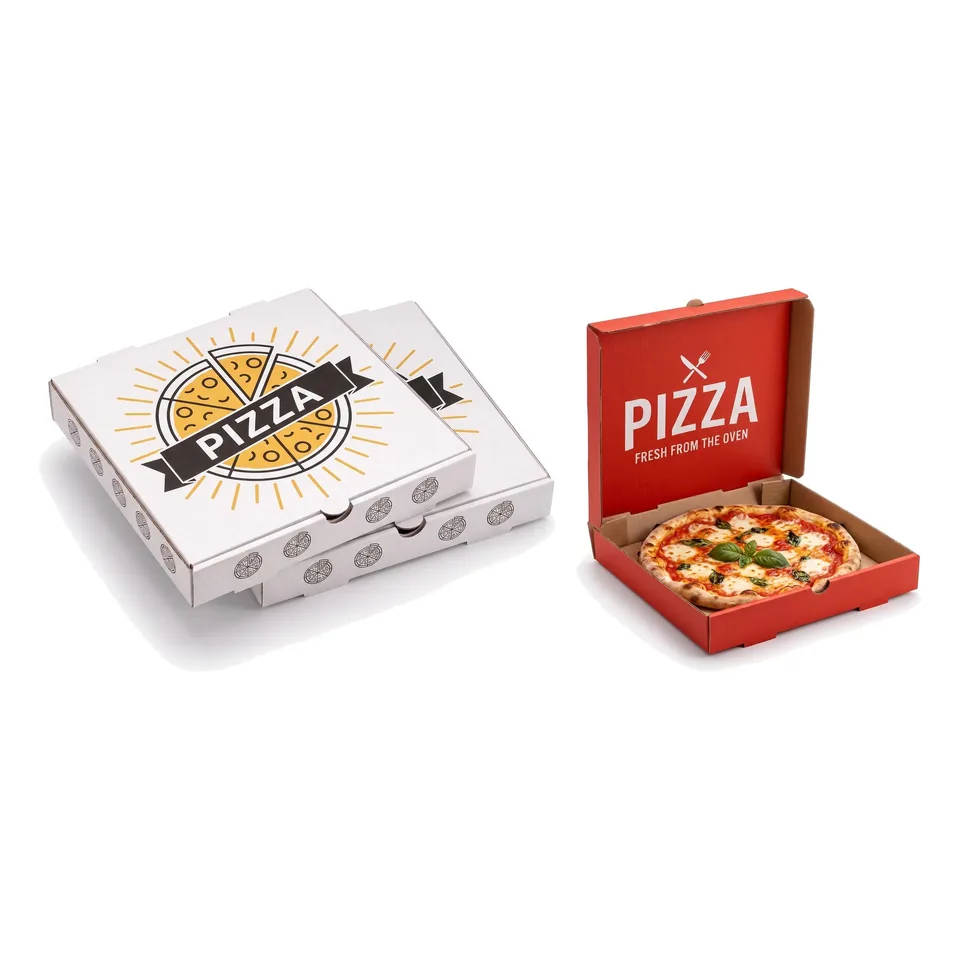
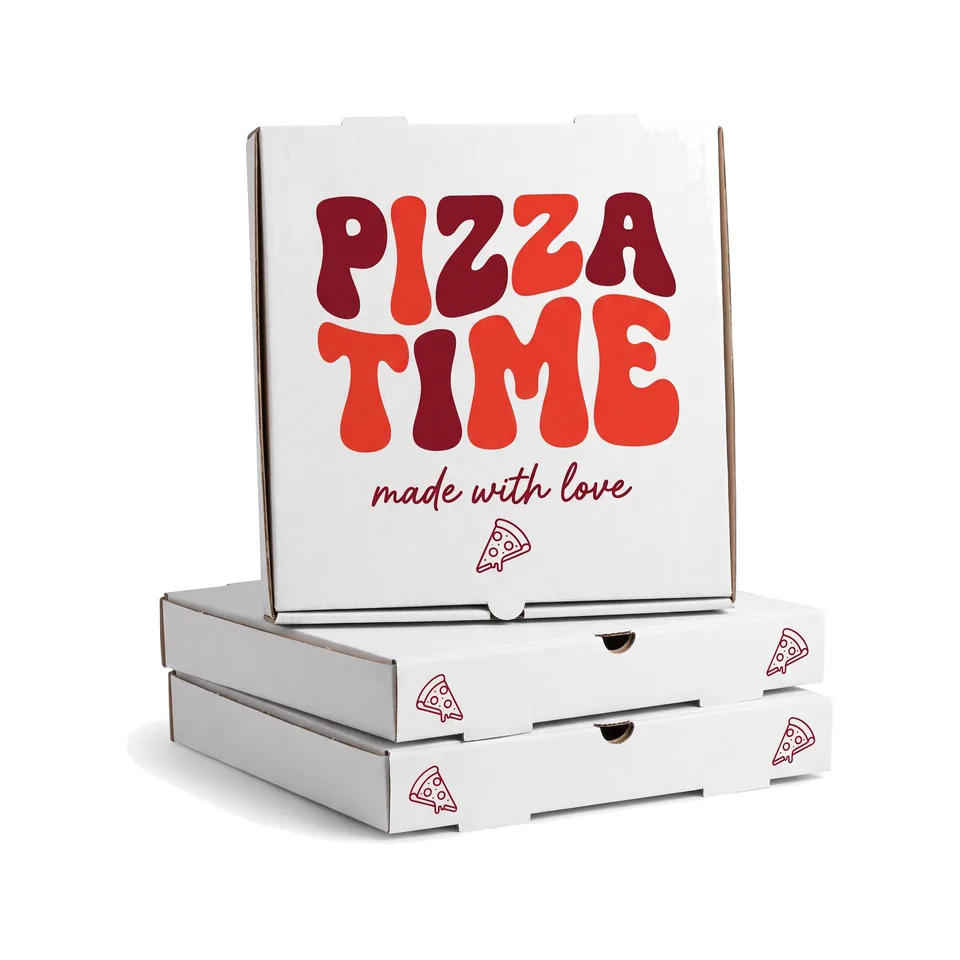
Pizzakartons: vier Bilder im Stil der Vorlagen (Stapel, zwei Kartons, offener Karton, Kraft)
Claude-Session: https://claude.ai/code/session_019HkPKDAwefi4jik8DbuM5U

diff --git a/produkte/pizzakartons/index.html b/produkte/pizzakartons/index.html
@@ -76,12 +76,16 @@
     <div class="pf-shot">
       <div class="pf-design-pick" data-designs>
       <div class="pf-designs" tabindex="0" role="region" aria-roledescription="Bildergalerie" aria-label="Echte Kundendesigns, zum Wechseln wischen">
-        <img class="pf-design is-on" src="/Bilder/web/pizzakarton-design-gelb-schwarz-960.webp" srcset="/Bilder/web/pizzakarton-design-gelb-schwarz-480.webp 480w, /Bilder/web/pizzakarton-design-gelb-schwarz-960.webp 960w" sizes="(max-width: 980px) 90vw, 560px" alt="Pizzakartons mit Logo im Design von Weiß, 2-farbig" width="960" height="960" draggable="false" fetchpriority="high">
+        <img class="pf-design is-on" src="/Bilder/web/pizzakarton-design-stapel-rot-960.webp" srcset="/Bilder/web/pizzakarton-design-stapel-rot-480.webp 480w, /Bilder/web/pizzakarton-design-stapel-rot-960.webp 960w" sizes="(max-width: 980px) 90vw, 560px" alt="Pizzakartons mit Logo im Design von Weiß, 2-farbig" width="960" height="960" draggable="false" fetchpriority="high">
+        <img class="pf-design" src="/Bilder/web/pizzakarton-design-gelb-schwarz-960.webp" srcset="/Bilder/web/pizzakarton-design-gelb-schwarz-480.webp 480w, /Bilder/web/pizzakarton-design-gelb-schwarz-960.webp 960w" sizes="(max-width: 980px) 90vw, 560px" alt="Pizzakartons mit Logo im Design von Weiß, 2-farbig" width="960" height="960" draggable="false" decoding="async">
         <img class="pf-design" src="/Bilder/web/pizzakarton-design-rot-offen-960.webp" srcset="/Bilder/web/pizzakarton-design-rot-offen-480.webp 480w, /Bilder/web/pizzakarton-design-rot-offen-960.webp 960w" sizes="(max-width: 980px) 90vw, 560px" alt="Pizzakartons mit Logo im Design von Rot, 1-farbig" width="960" height="960" draggable="false" decoding="async">
+        <img class="pf-design" src="/Bilder/web/pizzakarton-design-kraft-rot-960.webp" srcset="/Bilder/web/pizzakarton-design-kraft-rot-480.webp 480w, /Bilder/web/pizzakarton-design-kraft-rot-960.webp 960w" sizes="(max-width: 980px) 90vw, 560px" alt="Pizzakartons mit Logo im Design von Braun, 1-farbig" width="960" height="960" draggable="false" decoding="async">
       </div>
       <div class="pf-swatches" role="group" aria-label="Kundendesign wählen">
-        <button type="button" class="pf-swatch is-on" style="--c:#F2B630" data-name="Weiß, 2-farbig" aria-pressed="true" aria-label="Design von Weiß, 2-farbig zeigen"></button>
+        <button type="button" class="pf-swatch is-on" style="--c:#B8202E" data-name="Weiß, 2-farbig" aria-pressed="true" aria-label="Design von Weiß, 2-farbig zeigen"></button>
+        <button type="button" class="pf-swatch" style="--c:#F2B630" data-name="Weiß, 2-farbig" aria-pressed="false" aria-label="Design von Weiß, 2-farbig zeigen"></button>
         <button type="button" class="pf-swatch" style="--c:#D9302C" data-name="Rot, 1-farbig" aria-pressed="false" aria-label="Design von Rot, 1-farbig zeigen"></button>
+        <button type="button" class="pf-swatch" style="--c:#B88A5A" data-name="Braun, 1-farbig" aria-pressed="false" aria-label="Design von Braun, 1-farbig zeigen"></button>
       </div>
       <p class="pf-design-cap">Gestaltungsbeispiel: <b data-design-name aria-live="polite">Weiß, 2-farbig</b><span>Dein Pizzakarton bekommt dein Logo in deinen Farben.</span></p>
       </div>
@@ -343,7 +347,7 @@
   </div>
 </div>
 
-<script type="application/json" id="pf-data">{"product":{"slug":"pizzakartons","url":"/produkte/pizzakartons/","name":"Pizzakartons mit Logo","image":"/Bilder/web/pizzakartons-karte-960.webp","unit":"Stück","qtyKey":"menge","catalog":{"title":"Pizzakartons","tags":["papierboxen"]},"badge":"Neu","branchen":["doener","bowls"],"related":["servietten","feuchttuecher","tueten","salatschalen"],"options":[{"key":"groesse","label":"Größe","choices":[{"id":"20x20","label":"20 × 20 cm","detail":"Höhe 4 cm"},{"id":"24x24","label":"24 × 24 cm","detail":"Höhe ca. 3,5–4 cm"},{"id":"26x26","label":"26 × 26 cm","detail":"Höhe ca. 3,5–4 cm"},{"id":"28x28","label":"28 × 28 cm","detail":"Höhe 4 cm"},{"id":"30x30","label":"30 × 30 cm","detail":"Höhe 4 cm"},{"id":"32x32","label":"32 × 32 cm","detail":"Höhe 4 cm"},{"id":"34x34","label":"34 × 34 cm","detail":"Höhe 4 cm"},{"id":"36x36","label":"36 × 36 cm","detail":"Höhe 4 cm"},{"id":"40x40","label":"40 × 40 cm","detail":"Höhe 4 cm"},{"id":"42x42","label":"42 × 42 cm","detail":"Höhe 4 cm"},{"id":"45x45","label":"45 × 45 cm","detail":"Höhe 4 cm"},{"id":"50x50","label":"50 × 50 cm","detail":"Höhe 5 cm"}],"note":"Weitere Maße und Sonderhöhen auf Anfrage"},{"key":"druck","label":"Druck","choices":[{"id":"1","label":"1-farbig","detail":"Flexodruck"},{"id":"2","label":"2-farbig","detail":"Flexodruck"}],"note":"Karton weiß oder braun – die genaue Ausführung bestätigen wir vor dem Auftrag"},{"key":"menge","label":"Menge","choices":[{"id":"1000","label":"1.000 Stück"},{"id":"3000","label":"3.000 Stück"},{"id":"5000","label":"5.000 Stück","tip":true},{"id":"10000","label":"10.000 Stück"}],"note":"Größere Mengen auf Anfrage · einmalige Klischeekosten je nach Motiv separat"}],"pricing":{"basis":"unit","by":["groesse","druck","menge"],"table":{"20x20":{"1":{"1000":4800,"3000":2780,"5000":2380,"10000":2210},"2":{"1000":5210,"3000":3190,"5000":2790,"10000":2620}},"24x24":{"1":{"1000":4780,"3000":2780,"5000":2430,"10000":2250},"2":{"1000":5370,"3000":2980,"5000":2630,"10000":2450}},"26x26":{"1":{"1000":4820,"3000":2820,"5000":2470,"10000":2320},"2":{"1000":5440,"3000":3020,"5000":2670,"10000":2520}},"28x28":{"1":{"1000":5210,"3000":3150,"5000":2800,"10000":2650},"2":{"1000":5620,"3000":3560,"5000":3210,"10000":3060}},"30x30":{"1":{"1000":4940,"3000":2940,"5000":2640,"10000":2460},"2":{"1000":5780,"3000":3140,"5000":2840,"10000":2660}},"32x32":{"1":{"1000":5020,"3000":3020,"5000":2720,"10000":2540},"2":{"1000":5850,"3000":3220,"5000":2920,"10000":2740}},"34x34":{"1":{"1000":5210,"3000":3210,"5000":2910,"10000":2760},"2":{"1000":6010,"3000":3410,"5000":3110,"10000":2960}},"36x36":{"1":{"1000":5300,"3000":3300,"5000":3050,"10000":2880},"2":{"1000":6190,"3000":3500,"5000":3250,"10000":3080}},"40x40":{"1":{"1000":5700,"3000":4110,"5000":3840,"10000":3690},"2":{"1000":6450,"3000":4490,"5000":4200,"10000":4050}},"42x42":{"1":{"1000":6220,"3000":4380,"5000":4080,"10000":3900},"2":{"1000":6630,"3000":4790,"5000":4490,"10000":4310}},"45x45":{"1":{"1000":6240,"3000":4700,"5000":4450,"10000":4270},"2":{"1000":6970,"3000":4940,"5000":4690,"10000":4540}},"50x50":{"1":{"1000":7040,"3000":5230,"5000":4950,"10000":4800},"2":{"1000":7450,"3000":5650,"5000":5360,"10000":5210}}},"qty":{"by":"menge"}},"rechner":{"frage":"Wie viele Pizzen verkaufst du am Tag?","start":60},"designs":{"wort":"Pizzakarton","artikel":"Dein","titel":"Gestaltungsbeispiel","bilder":[{"file":"pizzakarton-design-gelb-schwarz","name":"Weiß, 2-farbig","color":"#F2B630"},{"file":"pizzakarton-design-rot-offen","name":"Rot, 1-farbig","color":"#D9302C"}]}},"catalog":[{"slug":"tueten","url":"/produkte/tueten/","title":"Papiertüten","img":"/Bilder/web/tueten-karte-480.webp","from":"ab 12,00 ct"},{"slug":"sleeves","url":"/produkte/sleeves/","title":"Kaffeebecher Sleeves","img":"/Bilder/web/sleeves-shop-480.webp","from":"ab 2,59 ct"},{"slug":"burgerbox","url":"/produkte/burgerbox/","title":"Burgerbox","img":"/Bilder/web/burgerbox-karte-480.webp","from":"ab 11,50 ct"},{"slug":"pizzakartons","url":"/produkte/pizzakartons/","title":"Pizzakartons","img":"/Bilder/web/pizzakartons-karte-480.webp","from":"ab 22,10 ct"},{"slug":"einschlagpapier","url":"/produkte/einschlagpapier/","title":"Einschlagpapier","img":"/Bilder/web/tablettpapier-480.webp","from":"ab 5,20 €/kg"},{"slug":"broetchentueten","url":"/produkte/broetchentueten/","title":"Brötchentüten","img":"/Bilder/web/broetchentueten-480.webp","from":"ab 4,68 €/kg"},{"slug":"doenertueten","url":"/produkte/doenertueten/","title":"Dönertüten","img":"/Bilder/web/doenertueten-480.webp","from":"ab 5,20 €/kg"},{"slug":"kuru-pasta","url":"/produkte/kuru-pasta/","title":"Kuru Pasta Kutusu","img":"/Bilder/web/kurupasta-480.webp","from":"ab 11,10 ct"},{"slug":"salatschalen","url":"/produkte/salatschalen/","title":"Salatschalen","img":"/Bilder/web/salatschalen-karte-480.webp","from":"ab 14,15 ct"},{"slug":"baklava-kutusu","url":"/produkte/baklava-kutusu/","title":"Baklava Kutusu","img":"/Bilder/web/baklava-480.webp","from":"ab 8,10 ct"},{"slug":"kuchenboxen","url":"/produkte/kuchenboxen/","title":"Kuchenboxen","img":"/Bilder/web/kuchenbox-480.webp","from":"ab 16,00 ct"},{"slug":"pommesschuetten","url":"/produkte/pommesschuetten/","title":"Pommesschütten","img":"/Bilder/web/pommes-480.webp","from":"ab 5,92 ct"},{"slug":"fc-box","url":"/produkte/fc-box/","title":"FC Box","img":"/Bilder/web/fcbox-480.webp","from":"ab 9,20 ct"},{"slug":"doenerboxen","url":"/produkte/doenerboxen/","title":"Dönerboxen","img":"/Bilder/web/doenerboxen-karte-480.webp","from":"ab 8,29 ct"},{"slug":"takeaway-boxen","url":"/produkte/takeaway-boxen/","title":"Take-away Boxen","img":"/Bilder/web/takeawaybox-480.webp","from":"ab 15,81 ct"},{"slug":"kaffeebecher-single-wall","url":"/produkte/kaffeebecher-single-wall/","title":"Kaffeebecher Single Wall","img":"/Bilder/web/kaffeebecher-sw-480.webp","from":"ab 6,67 ct"},{"slug":"kaffeebecher-double-wall","url":"/produkte/kaffeebecher-double-wall/","title":"Kaffeebecher Double Wall","img":"/Bilder/web/kaffeebecher-dw-480.webp","from":"ab 10,15 ct"},{"slug":"clear-cups","url":"/produkte/clear-cups/","title":"Clear Cups","img":"/Bilder/web/clear-cups-480.webp","from":"ab 13,50 ct"},{"slug":"bubble-tea-cups","url":"/produkte/bubble-tea-cups/","title":"Bubble Tea Cups","img":"/Bilder/web/bubble-tea-cups-480.webp","from":"ab 17,30 ct"},{"slug":"servietten","url":"/produkte/servietten/","title":"Servietten mit Logo","img":"/Bilder/web/servietten-480.webp","from":"ab 1,95 ct"},{"slug":"feuchttuecher","url":"/produkte/feuchttuecher/","title":"Feuchttücher","img":"/Bilder/web/feuchttuecher-480.webp","from":"ab 2,90 ct"}]}</script>
+<script type="application/json" id="pf-data">{"product":{"slug":"pizzakartons","url":"/produkte/pizzakartons/","name":"Pizzakartons mit Logo","image":"/Bilder/web/pizzakartons-karte-960.webp","unit":"Stück","qtyKey":"menge","catalog":{"title":"Pizzakartons","tags":["papierboxen"]},"badge":"Neu","branchen":["doener","bowls"],"related":["servietten","feuchttuecher","tueten","salatschalen"],"options":[{"key":"groesse","label":"Größe","choices":[{"id":"20x20","label":"20 × 20 cm","detail":"Höhe 4 cm"},{"id":"24x24","label":"24 × 24 cm","detail":"Höhe ca. 3,5–4 cm"},{"id":"26x26","label":"26 × 26 cm","detail":"Höhe ca. 3,5–4 cm"},{"id":"28x28","label":"28 × 28 cm","detail":"Höhe 4 cm"},{"id":"30x30","label":"30 × 30 cm","detail":"Höhe 4 cm"},{"id":"32x32","label":"32 × 32 cm","detail":"Höhe 4 cm"},{"id":"34x34","label":"34 × 34 cm","detail":"Höhe 4 cm"},{"id":"36x36","label":"36 × 36 cm","detail":"Höhe 4 cm"},{"id":"40x40","label":"40 × 40 cm","detail":"Höhe 4 cm"},{"id":"42x42","label":"42 × 42 cm","detail":"Höhe 4 cm"},{"id":"45x45","label":"45 × 45 cm","detail":"Höhe 4 cm"},{"id":"50x50","label":"50 × 50 cm","detail":"Höhe 5 cm"}],"note":"Weitere Maße und Sonderhöhen auf Anfrage"},{"key":"druck","label":"Druck","choices":[{"id":"1","label":"1-farbig","detail":"Flexodruck"},{"id":"2","label":"2-farbig","detail":"Flexodruck"}],"note":"Karton weiß oder braun – die genaue Ausführung bestätigen wir vor dem Auftrag"},{"key":"menge","label":"Menge","choices":[{"id":"1000","label":"1.000 Stück"},{"id":"3000","label":"3.000 Stück"},{"id":"5000","label":"5.000 Stück","tip":true},{"id":"10000","label":"10.000 Stück"}],"note":"Größere Mengen auf Anfrage · einmalige Klischeekosten je nach Motiv separat"}],"pricing":{"basis":"unit","by":["groesse","druck","menge"],"table":{"20x20":{"1":{"1000":4800,"3000":2780,"5000":2380,"10000":2210},"2":{"1000":5210,"3000":3190,"5000":2790,"10000":2620}},"24x24":{"1":{"1000":4780,"3000":2780,"5000":2430,"10000":2250},"2":{"1000":5370,"3000":2980,"5000":2630,"10000":2450}},"26x26":{"1":{"1000":4820,"3000":2820,"5000":2470,"10000":2320},"2":{"1000":5440,"3000":3020,"5000":2670,"10000":2520}},"28x28":{"1":{"1000":5210,"3000":3150,"5000":2800,"10000":2650},"2":{"1000":5620,"3000":3560,"5000":3210,"10000":3060}},"30x30":{"1":{"1000":4940,"3000":2940,"5000":2640,"10000":2460},"2":{"1000":5780,"3000":3140,"5000":2840,"10000":2660}},"32x32":{"1":{"1000":5020,"3000":3020,"5000":2720,"10000":2540},"2":{"1000":5850,"3000":3220,"5000":2920,"10000":2740}},"34x34":{"1":{"1000":5210,"3000":3210,"5000":2910,"10000":2760},"2":{"1000":6010,"3000":3410,"5000":3110,"10000":2960}},"36x36":{"1":{"1000":5300,"3000":3300,"5000":3050,"10000":2880},"2":{"1000":6190,"3000":3500,"5000":3250,"10000":3080}},"40x40":{"1":{"1000":5700,"3000":4110,"5000":3840,"10000":3690},"2":{"1000":6450,"3000":4490,"5000":4200,"10000":4050}},"42x42":{"1":{"1000":6220,"3000":4380,"5000":4080,"10000":3900},"2":{"1000":6630,"3000":4790,"5000":4490,"10000":4310}},"45x45":{"1":{"1000":6240,"3000":4700,"5000":4450,"10000":4270},"2":{"1000":6970,"3000":4940,"5000":4690,"10000":4540}},"50x50":{"1":{"1000":7040,"3000":5230,"5000":4950,"10000":4800},"2":{"1000":7450,"3000":5650,"5000":5360,"10000":5210}}},"qty":{"by":"menge"}},"rechner":{"frage":"Wie viele Pizzen verkaufst du am Tag?","start":60},"designs":{"wort":"Pizzakarton","artikel":"Dein","titel":"Gestaltungsbeispiel","bilder":[{"file":"pizzakarton-design-stapel-rot","name":"Weiß, 2-farbig","color":"#B8202E"},{"file":"pizzakarton-design-gelb-schwarz","name":"Weiß, 2-farbig","color":"#F2B630"},{"file":"pizzakarton-design-rot-offen","name":"Rot, 1-farbig","color":"#D9302C"},{"file":"pizzakarton-design-kraft-rot","name":"Braun, 1-farbig","color":"#B88A5A"}]}},"catalog":[{"slug":"tueten","url":"/produkte/tueten/","title":"Papiertüten","img":"/Bilder/web/tueten-karte-480.webp","from":"ab 12,00 ct"},{"slug":"sleeves","url":"/produkte/sleeves/","title":"Kaffeebecher Sleeves","img":"/Bilder/web/sleeves-shop-480.webp","from":"ab 2,59 ct"},{"slug":"burgerbox","url":"/produkte/burgerbox/","title":"Burgerbox","img":"/Bilder/web/burgerbox-karte-480.webp","from":"ab 11,50 ct"},{"slug":"pizzakartons","url":"/produkte/pizzakartons/","title":"Pizzakartons","img":"/Bilder/web/pizzakartons-karte-480.webp","from":"ab 22,10 ct"},{"slug":"einschlagpapier","url":"/produkte/einschlagpapier/","title":"Einschlagpapier","img":"/Bilder/web/tablettpapier-480.webp","from":"ab 5,20 €/kg"},{"slug":"broetchentueten","url":"/produkte/broetchentueten/","title":"Brötchentüten","img":"/Bilder/web/broetchentueten-480.webp","from":"ab 4,68 €/kg"},{"slug":"doenertueten","url":"/produkte/doenertueten/","title":"Dönertüten","img":"/Bilder/web/doenertueten-480.webp","from":"ab 5,20 €/kg"},{"slug":"kuru-pasta","url":"/produkte/kuru-pasta/","title":"Kuru Pasta Kutusu","img":"/Bilder/web/kurupasta-480.webp","from":"ab 11,10 ct"},{"slug":"salatschalen","url":"/produkte/salatschalen/","title":"Salatschalen","img":"/Bilder/web/salatschalen-karte-480.webp","from":"ab 14,15 ct"},{"slug":"baklava-kutusu","url":"/produkte/baklava-kutusu/","title":"Baklava Kutusu","img":"/Bilder/web/baklava-480.webp","from":"ab 8,10 ct"},{"slug":"kuchenboxen","url":"/produkte/kuchenboxen/","title":"Kuchenboxen","img":"/Bilder/web/kuchenbox-480.webp","from":"ab 16,00 ct"},{"slug":"pommesschuetten","url":"/produkte/pommesschuetten/","title":"Pommesschütten","img":"/Bilder/web/pommes-480.webp","from":"ab 5,92 ct"},{"slug":"fc-box","url":"/produkte/fc-box/","title":"FC Box","img":"/Bilder/web/fcbox-480.webp","from":"ab 9,20 ct"},{"slug":"doenerboxen","url":"/produkte/doenerboxen/","title":"Dönerboxen","img":"/Bilder/web/doenerboxen-karte-480.webp","from":"ab 8,29 ct"},{"slug":"takeaway-boxen","url":"/produkte/takeaway-boxen/","title":"Take-away Boxen","img":"/Bilder/web/takeawaybox-480.webp","from":"ab 15,81 ct"},{"slug":"kaffeebecher-single-wall","url":"/produkte/kaffeebecher-single-wall/","title":"Kaffeebecher Single Wall","img":"/Bilder/web/kaffeebecher-sw-480.webp","from":"ab 6,67 ct"},{"slug":"kaffeebecher-double-wall","url":"/produkte/kaffeebecher-double-wall/","title":"Kaffeebecher Double Wall","img":"/Bilder/web/kaffeebecher-dw-480.webp","from":"ab 10,15 ct"},{"slug":"clear-cups","url":"/produkte/clear-cups/","title":"Clear Cups","img":"/Bilder/web/clear-cups-480.webp","from":"ab 13,50 ct"},{"slug":"bubble-tea-cups","url":"/produkte/bubble-tea-cups/","title":"Bubble Tea Cups","img":"/Bilder/web/bubble-tea-cups-480.webp","from":"ab 17,30 ct"},{"slug":"servietten","url":"/produkte/servietten/","title":"Servietten mit Logo","img":"/Bilder/web/servietten-480.webp","from":"ab 1,95 ct"},{"slug":"feuchttuecher","url":"/produkte/feuchttuecher/","title":"Feuchttücher","img":"/Bilder/web/feuchttuecher-480.webp","from":"ab 2,90 ct"}]}</script>
 <script src="/assets/pf-site.js?v=08656d3e"></script>
 <script src="/assets/pf-pricing.js?v=77e49935"></script>
 <script src="/assets/pf-view.js?v=14f50606"></script>
